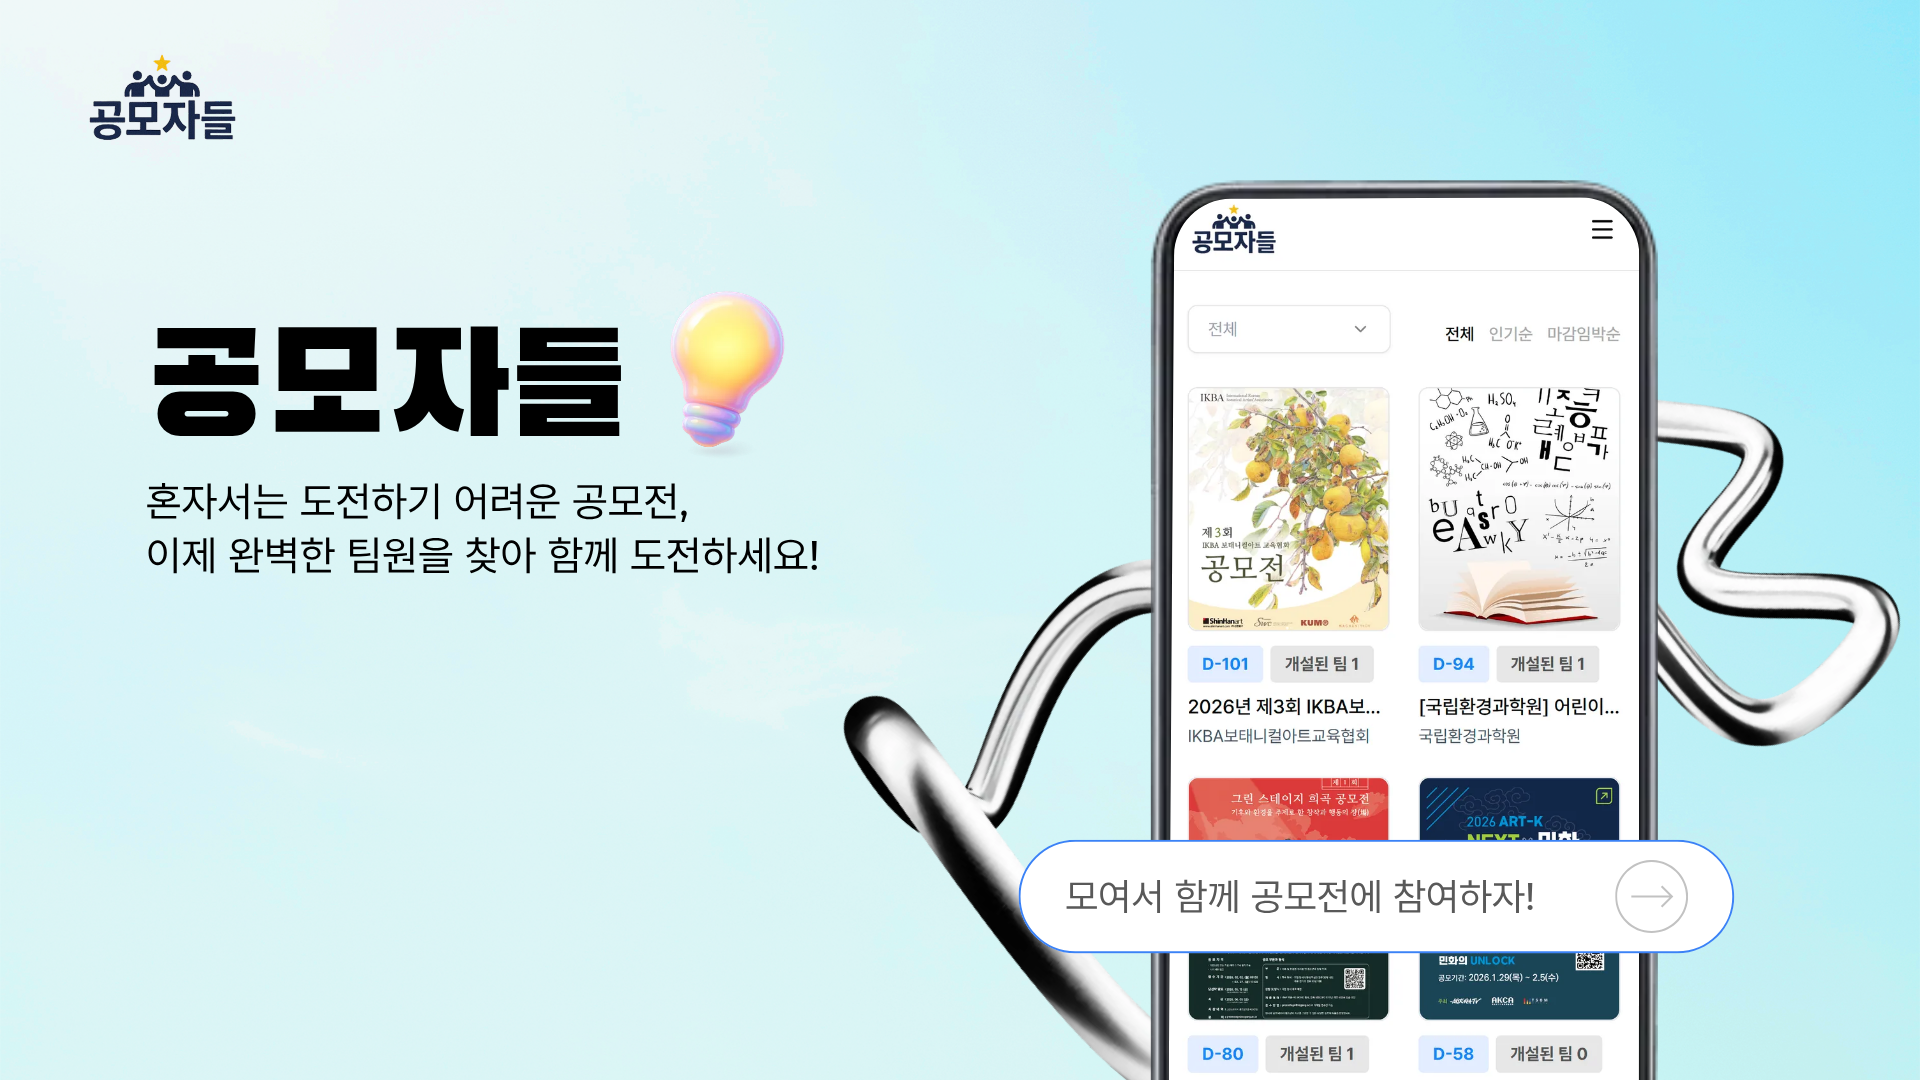
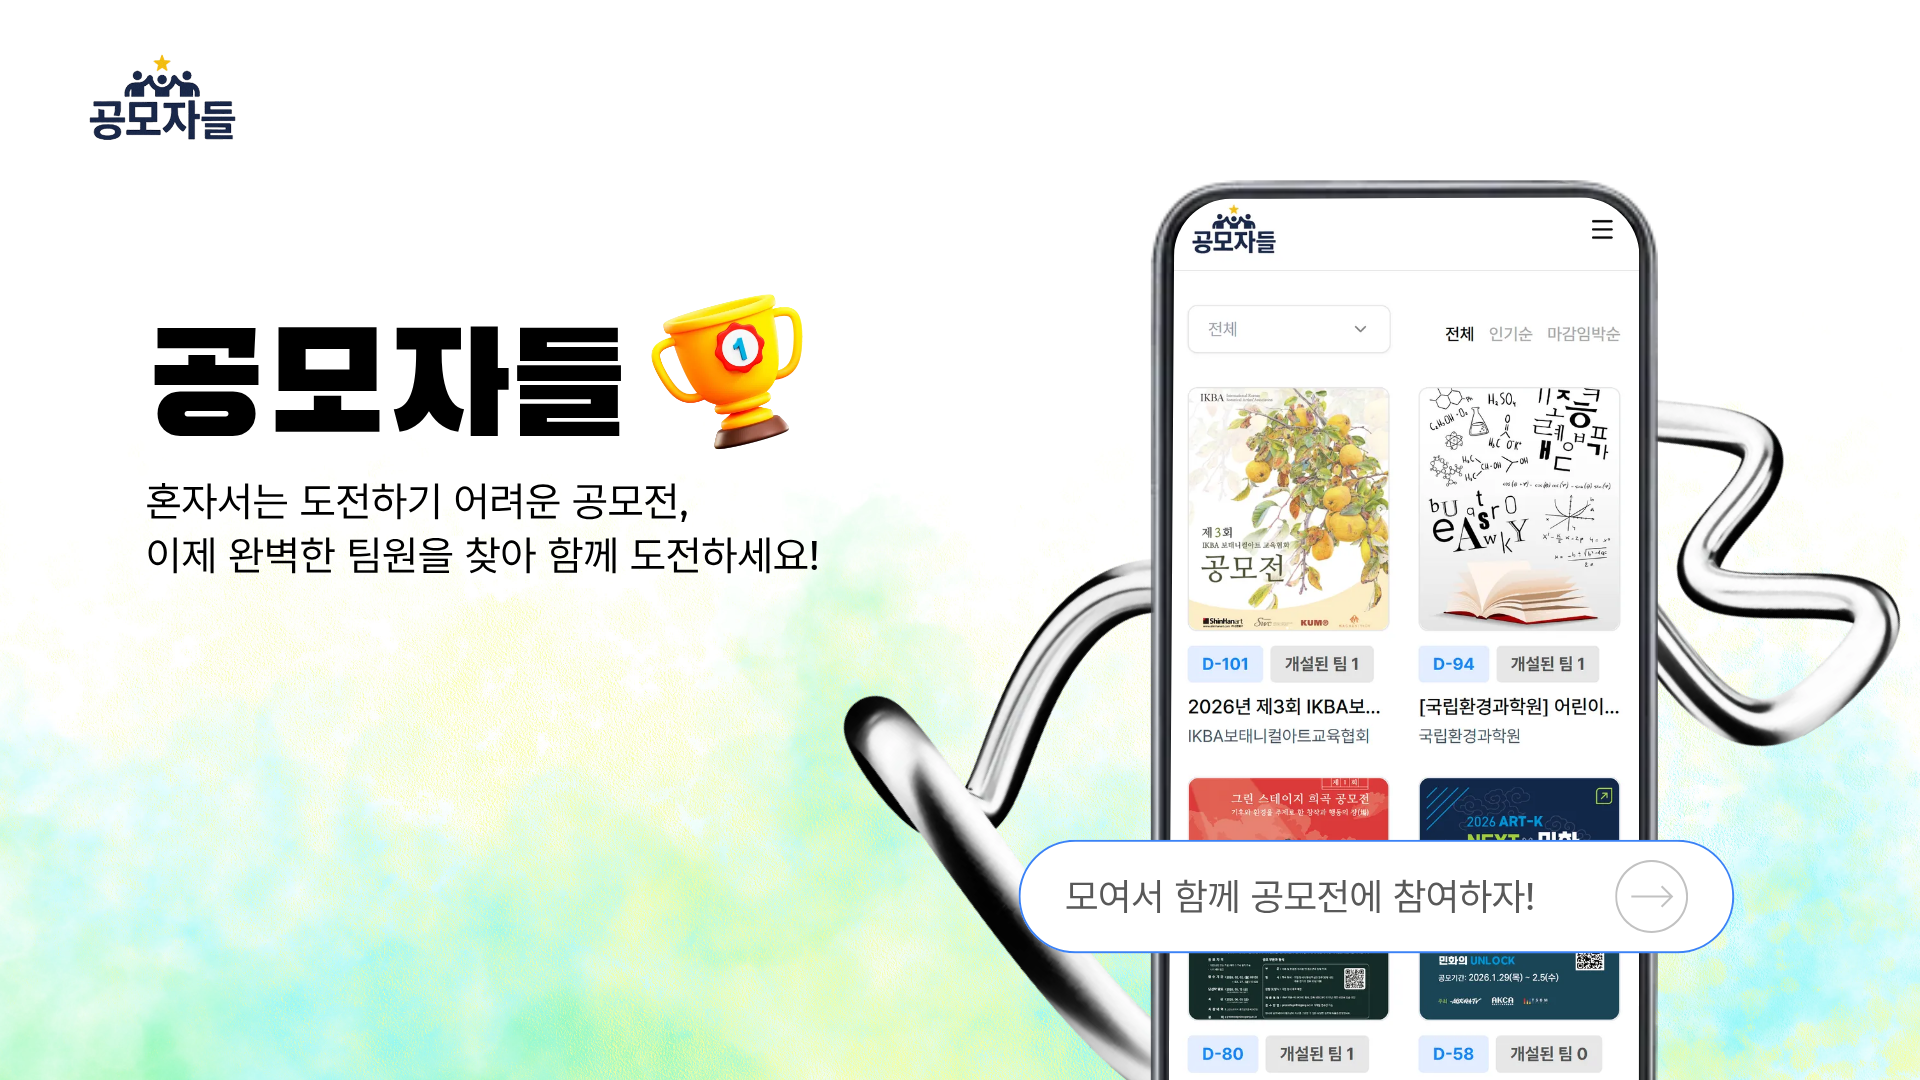
feat: 파비콘 적용 및 미리보기 이미지 수정

diff --git a/src/app/metadata.tsx b/src/app/metadata.tsx
@@ -1,12 +1,21 @@
 import type { Metadata } from 'next';
 
 export const metadata: Metadata = {
-  title: '🏆 공모자들 - 공모전 팀매칭 플랫폼',
+  title: '공모자들 - 공모전 팀매칭 플랫폼',
   description:
     '🤝 혼자서는 도전하기 어려운 공모전, 이제 완벽한 팀원을 찾아 함께 도전하세요! ✨ 보유 스킬과 경험을 기반으로 한 스마트 매칭으로 최적의 팀을 구성하고 🚀 성공적인 프로젝트를 만들어보세요.',
   keywords:
     '공모전, 팀매칭, 개발자, 팀빌딩, 프로그래밍, 해커톤, 프로젝트, 협업, 스킬매칭, 공모자들',
   authors: [{ name: '발자국' }],
+  icons: {
+    icon: [
+      { url: '/cup.png', type: 'image/png' },
+      { url: '/cup.png', sizes: '32x32', type: 'image/png' },
+      { url: '/cup.png', sizes: '16x16', type: 'image/png' },
+    ],
+    apple: '/cup.png',
+    shortcut: '/cup.png',
+  },
   openGraph: {
     title: '🏆 공모자들 - 공모전 팀매칭 플랫폼',
     description:
